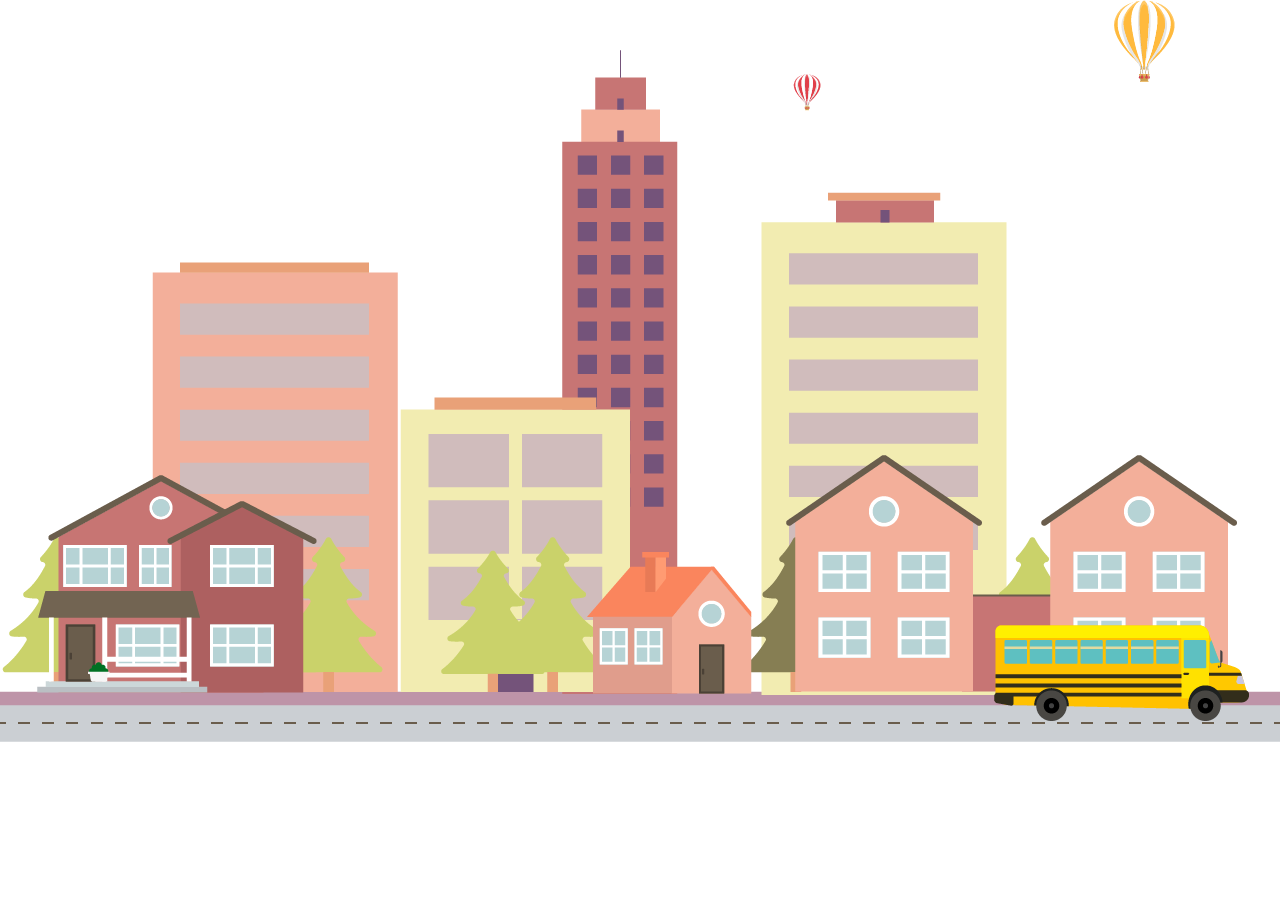
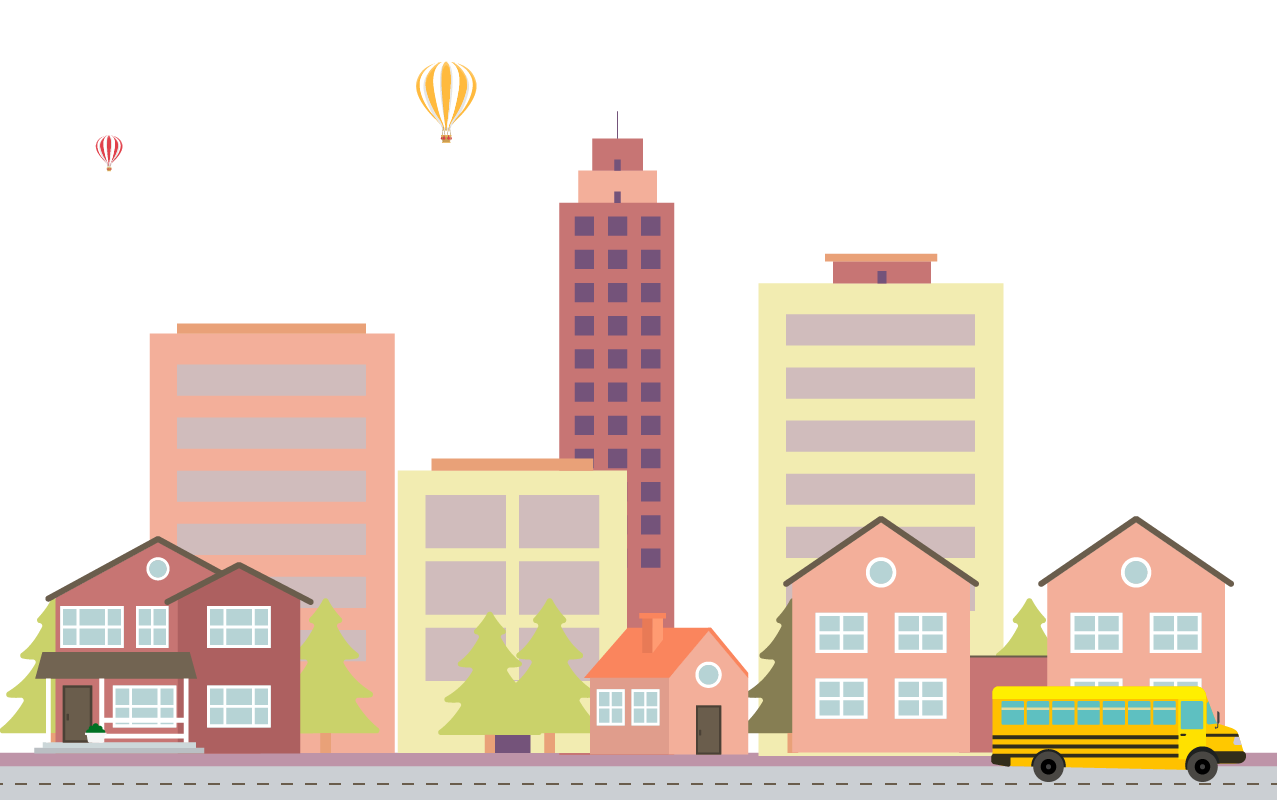
commit

diff --git a/style/styleAleth.css b/style/styleAleth.css
@@ -24,7 +24,8 @@ p {
 	background-color: #7FC8EA;
 }
 .flexnav img {
-	max-width: 50px;
+	max-width: 20%;
+	margin: 13px;
 }
 
 /**************** HOME : la carte postale d'envoi ***************/
@@ -51,7 +52,7 @@ p {
 .cartepostale { 
 	display: flex;
 	flex-direction: row;
-	justify-content: space-between;
+	justify-content: center;
 }
 
 
@@ -59,7 +60,7 @@ p {
 /*fond de page*/
 .container {
 	background-color: #7FC8EA;
-	padding-top: 80px;
+	padding-top: 70px;
 }
 .cartepostale input, .cartepostale textarea {
 	font-family: 'Dancing Script', cursive;
@@ -83,14 +84,12 @@ p {
 
 /**************** HOME : le dessin de ville ***************/
 .dessinVille img {
-	max-width: 100%;
-	position: fixed;
+	max-width: 50%;
 	bottom: 0;
 	max-height: 250px;
+	position: absolute;
 }
 .dessinVille {
-
-	position: absolute;
 	bottom: 0;
 	text-align: center;
 }
@@ -100,10 +99,10 @@ p {
 /*Dessin*/
 .dessinIle img{
 	max-width: 50%;
-	position: fixed;
+	position: absolute;
 	bottom: 0;
 	max-height: 250px;
-
+right: 0;
 }
 /*.dessinIle {
 	background-color: #7FC8EA;

diff --git a/Views/headView.php b/Views/headView.php
@@ -12,10 +12,10 @@
  	 <meta property="og:type"          content="website" />
   	<meta property="og:title"         content="ERA, faites voyager vos fichiers" />
 	  <meta property="og:description"   content="Avec ERA, envoyez d'un clic vos gros dossiers vers leurs destinataires!" />
- 	 <meta property="og:image"         content="Images/logo.png" />
+ 	 <meta property="og:image"         content="Images/logoIcone.png" />
 
 	<title>Era, faites voyager vos fichers</title>
-	 <link rel="shortcut icon" type="image/png" href="Images/logo.png">
+	 <link rel="shortcut icon" type="image/png" href="Images/logoIcone.png">
 	   <link href="https://fonts.googleapis.com/css?family=Dancing+Script|Marck+Script|Parisienne|Sacramento" rel="stylesheet"> 
 	<link rel="stylesheet" href="style/styleEmilie.css">
 	<link rel="stylesheet" href="style/styleRayan.css">

diff --git a/Views/HomeView.php b/Views/HomeView.php
@@ -10,7 +10,7 @@
 					<div class="cartepostale">
 						<div class="blocFichiers">
 							<div>Ajoutez des fichiers</div>
-							<input type="file" name="upload" accept="image/png, image/jpeg, image/gif, image/jpg, docx, .doc, .xml,application/msword,application/vnd.openxmlformats-officedocument.wordprocessingml.document" placeholder='envoyer' multiple/>
+							<input type="file" name="upload" accept="image/*, docx, .doc, .xml,application/msword,application/vnd.openxmlformats-officedocument.wordprocessingml.document" placeholder='envoyer' multiple/>
 						</div>
 						<div class="blocRenseignements">
 							<input type="mail" name="destinataire" placeholder="Envoyer à "><br>
